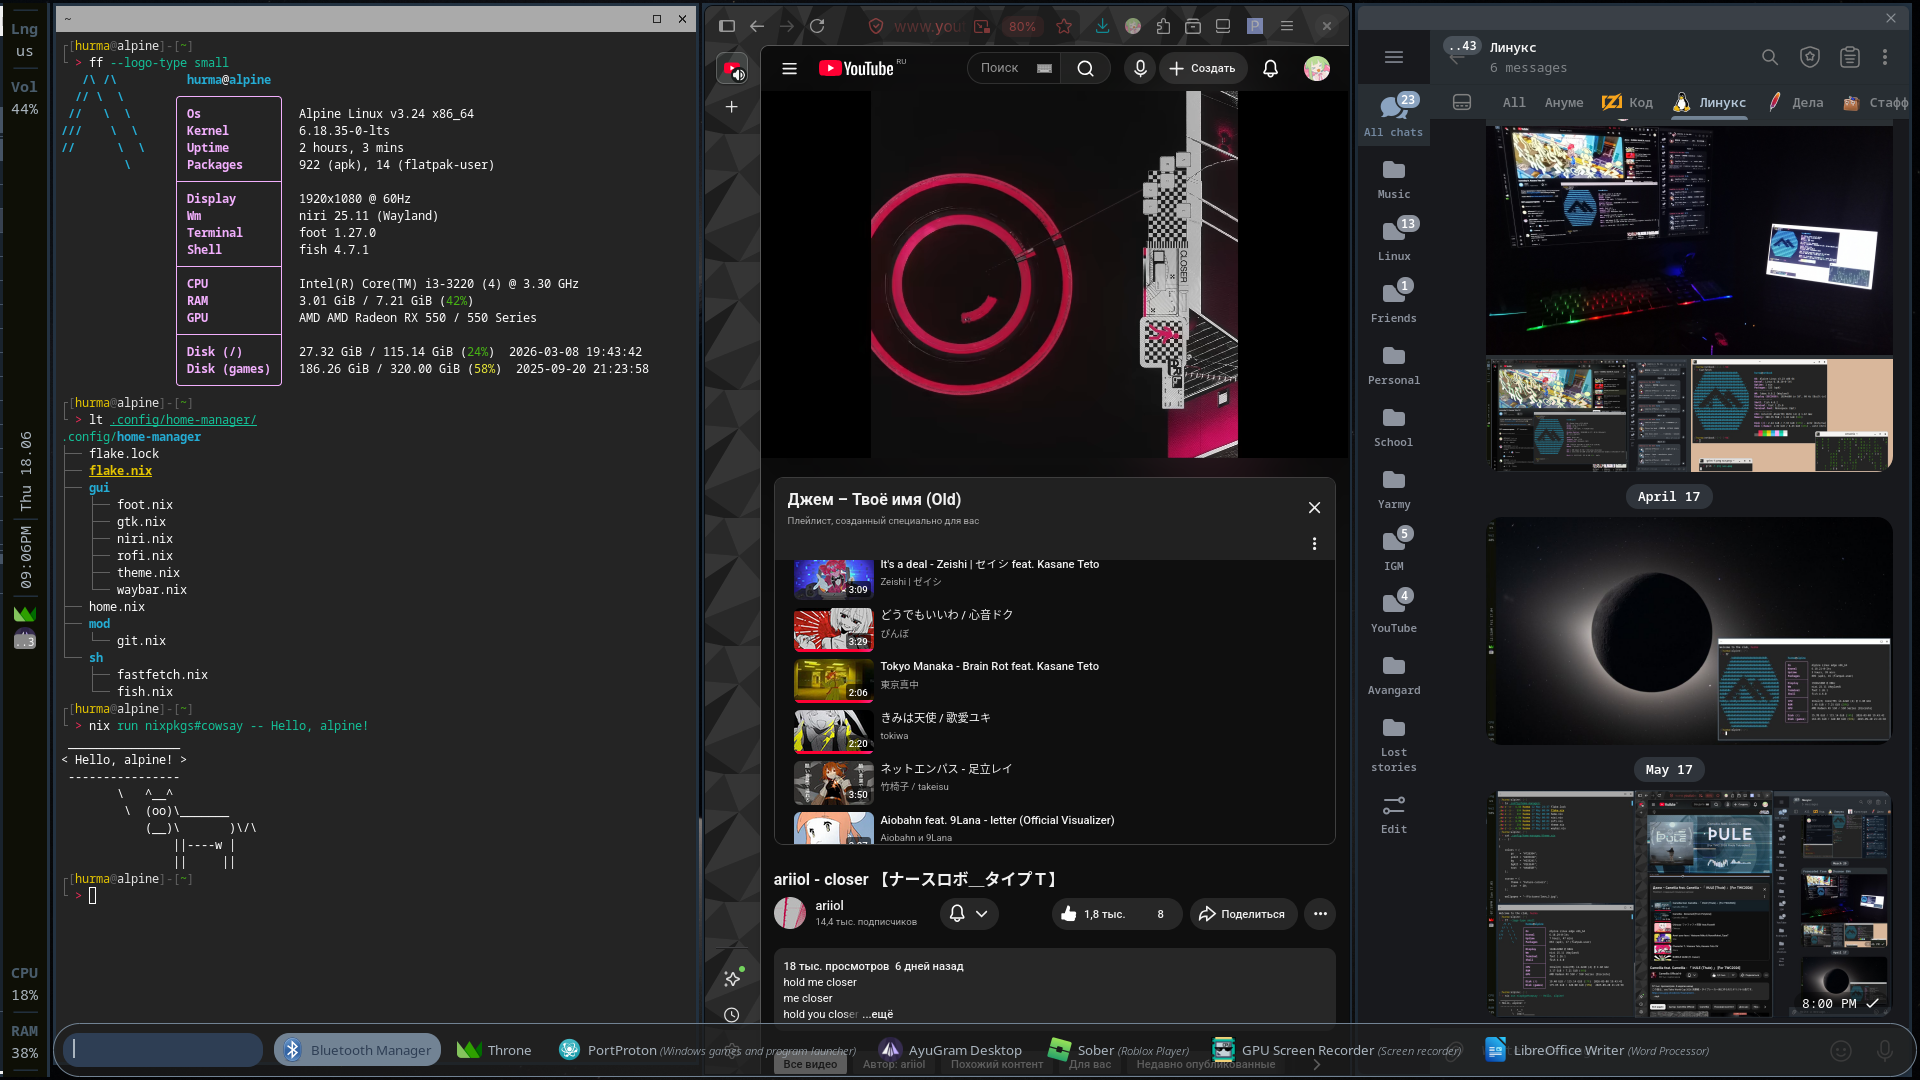
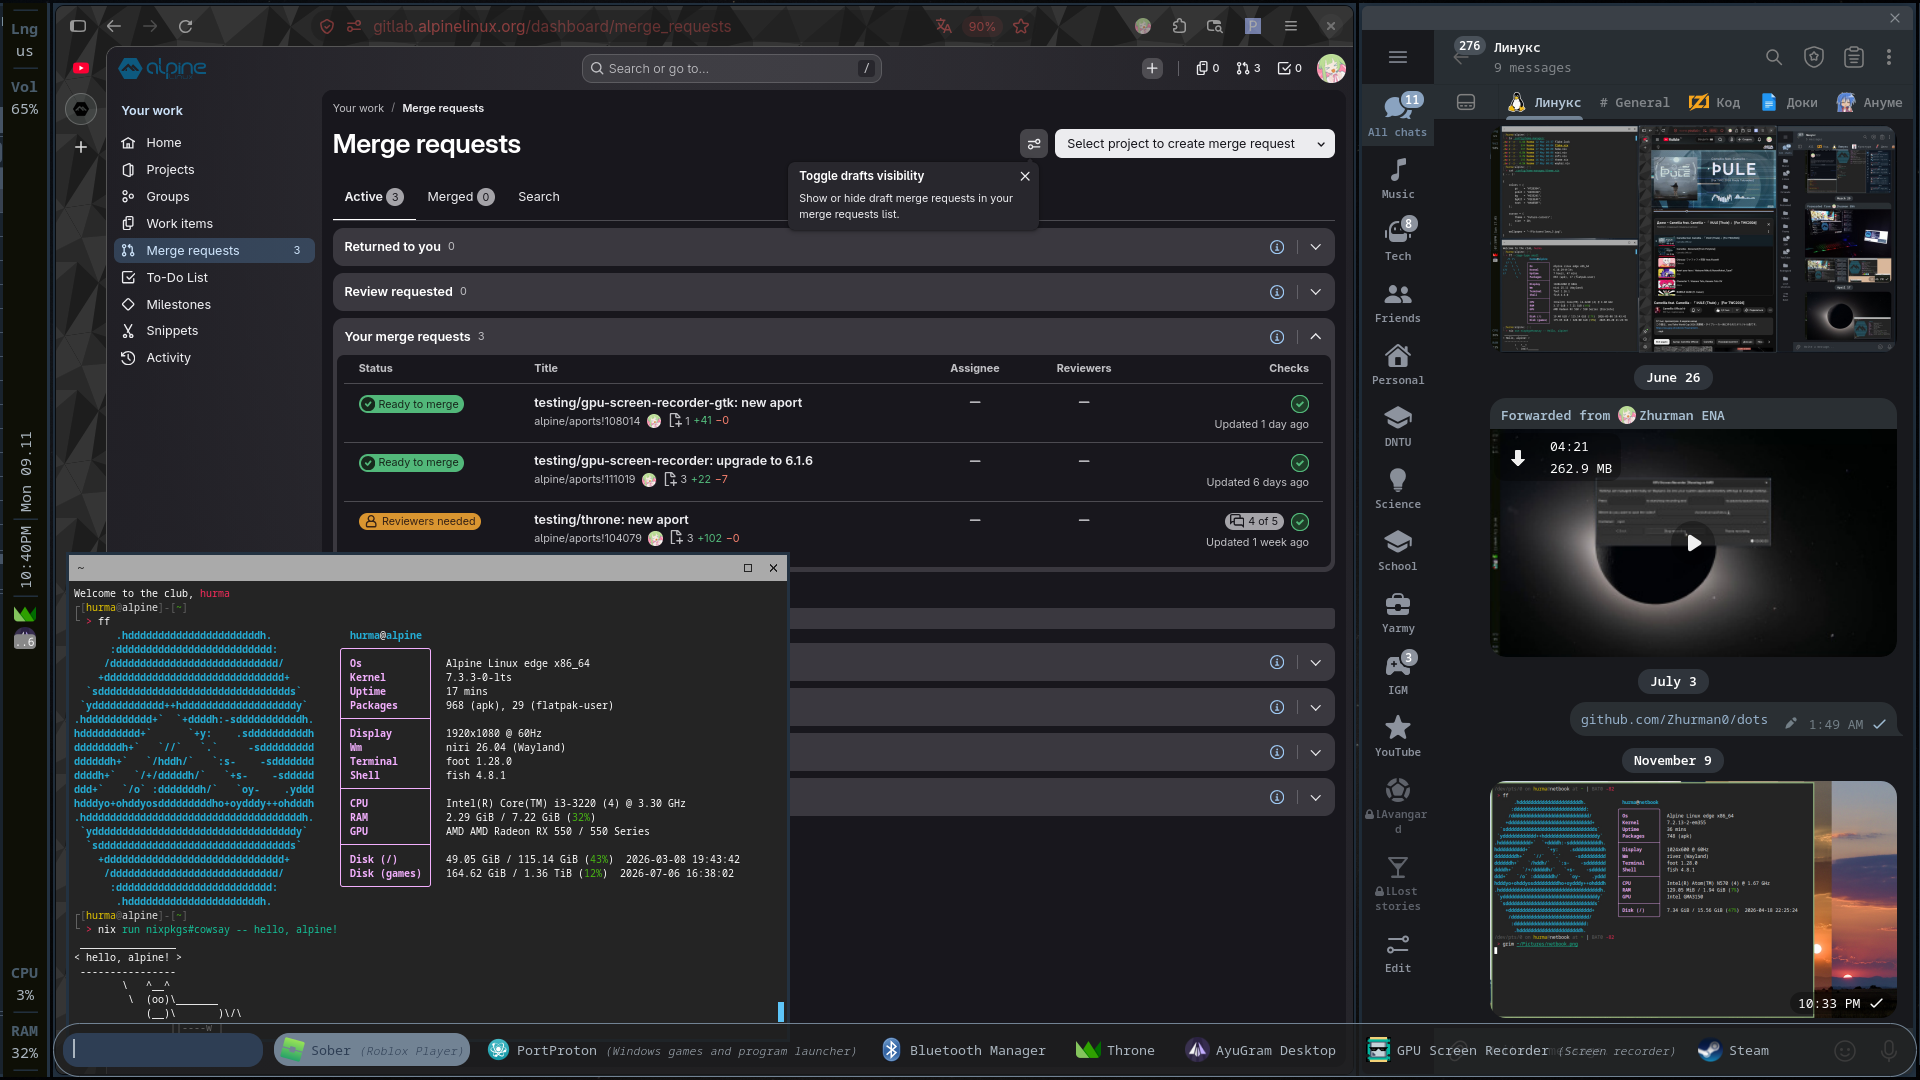
Update README and screenshots

diff --git a/README.md b/README.md
@@ -1,11 +1,8 @@
 # Alpine Linux dots 
 
 Знакомьтесь - home-manager на альпине.
-4 месяца назад у меня был тяжелый выбор между альпами и никсосью...
+8 месяцев назад у меня был тяжелый выбор между альпами и никсосью...
 сердце подсказало.. вы сами видите что)
-
-Пока здесь будет онли конфиги в хом менеджере (но вообще здесь все
-конфы на моё графическое окружение), но позже запушу апкбилды.
 
 
 ## Скриншоты
@@ -13,3 +10,7 @@
 ![Скриншот 1](screenshots/1.png)
 
 ![Скриншот 2](screenshots/2.png)
+
+Оу! И держите моего милого маленького eMachines eM355!
+
+![Скриншот 3](screenshots/netbook.png)
